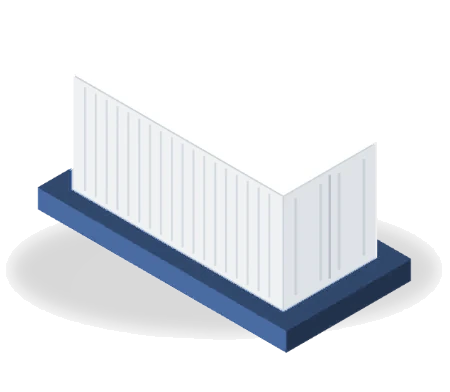
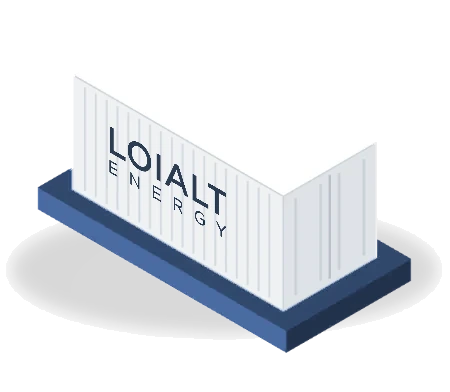
Marca los contenedores de Financiamiento y fija el dock en 4 + 3
Los tres contenedores llevan el wordmark de Loialt pintado en su cara
larga, mapeado con una afín sobre el paralelogramo para que herede el
escorzo de la caja.

El dock del nav deja de repartirse por capacidad: si las siete secciones
no caben son siempre dos páginas de 4 + 3, encogiendo la letra lo medido
y nunca por debajo de 11.8 px.

Changed region(s): [[0.2178, 0.3367, 0.4978, 0.5816], [0.4667, 0.5816, 0.4978, 0.6122]]

diff --git a/index.html b/index.html
@@ -476,6 +476,17 @@ html.tone-night .social-fab-list a:hover{ color:var(--energy); }
      la página 1 baja a 415. La letra NO se toca — ese fue justo el error de los
      escalones de compresión que esta paginación vino a sustituir. */
   .quicknav-dock.qn-paginado{ gap:1rem; }
+  /* REGLA ESTABLECIDA (2026-10-01, pedido del usuario): si las siete no caben,
+     SIEMPRE son dos páginas de 4 + 3 — «aunque la letra se haga un poco más
+     pequeña». Antes se repartía en tres páginas y salían 3 · 2 · 2, dos palabras
+     sueltas. `--qn-esc` es ese encogimiento, lo calcula `initDockPaginado()`
+     midiendo, y tiene PISO: nunca baja del 80 %, que sobre el mínimo de .92rem
+     son 11.8 px — justo por encima del piso de legibilidad de ~11.7 px que fijó
+     la auditoría de móvil. Si ni al 80 % cabe, se vuelve al reparto medido:
+     meter las palabras bajo el wordmark es peor que tres páginas. */
+  .quicknav-dock.qn-paginado a{
+    font-size: calc(clamp(.92rem,1.15vw,1.08rem) * var(--qn-esc, 1));
+  }
   /* Mismas flechas que el carrusel de Productos (pedido del usuario): solo el
      trazo, sin burbuja ni línea recta. El aviso de que responde lo da el color
      y un empujón hacia donde te va a llevar. */
@@ -3649,7 +3660,7 @@ html.tone-day .lang-sw{ color:var(--energy-deep); border-color:rgba(90,154,66,.4
       <!-- El hueco del render va dimensionado con --fin-h: cuando lleguen las
            piezas 3D se sustituye el .ph por un <img> y nada se mueve. -->
       <div class="fin-card reveal">
-        <div class="fin-media"><img src="/public/fin-venta.webp?v=3" alt="Contenedor BESS sobre un zócalo macizo de una sola pieza: el sistema es tuyo desde el primer día." width="450" height="392" loading="lazy" decoding="async" data-i18n-attr-alt="financiamiento.alt1"></div>
+        <div class="fin-media"><img src="/public/fin-venta.webp?v=4" alt="Contenedor BESS sobre un zócalo macizo de una sola pieza: el sistema es tuyo desde el primer día." width="450" height="392" loading="lazy" decoding="async" data-i18n-attr-alt="financiamiento.alt1"></div>
         <div class="fin-body">
           <div class="fin-k" data-i18n="financiamiento.div1">Venta directa</div>
           <h3 data-i18n="financiamiento.h31">Propiedad total</h3>
@@ -3659,7 +3670,7 @@ html.tone-day .lang-sw{ color:var(--energy-deep); border-color:rgba(90,154,66,.4
       </div>
 
       <div class="fin-card reveal">
-        <div class="fin-media"><img src="/public/fin-arrendamiento.webp?v=3" alt="Contenedor BESS sobre un zócalo mitad macizo y mitad luz verde: la inversión repartida, solo pagas una parte por adelantado." width="450" height="392" loading="lazy" decoding="async" data-i18n-attr-alt="financiamiento.alt2"></div>
+        <div class="fin-media"><img src="/public/fin-arrendamiento.webp?v=4" alt="Contenedor BESS sobre un zócalo mitad macizo y mitad luz verde: la inversión repartida, solo pagas una parte por adelantado." width="450" height="392" loading="lazy" decoding="async" data-i18n-attr-alt="financiamiento.alt2"></div>
         <div class="fin-body">
           <div class="fin-k" data-i18n="financiamiento.div2">Arrendamiento</div>
           <h3 data-i18n="financiamiento.h32">Inversión inicial mínima</h3>
@@ -3669,7 +3680,7 @@ html.tone-day .lang-sw{ color:var(--energy-deep); border-color:rgba(90,154,66,.4
       </div>
 
       <div class="fin-card reveal">
-        <div class="fin-media"><img src="/public/fin-baas.webp?v=3" alt="Contenedor BESS sin zócalo, apoyado solo sobre luz verde: cero inversión inicial, lo opera Loialt." width="450" height="392" loading="lazy" decoding="async" data-i18n-attr-alt="financiamiento.alt3"></div>
+        <div class="fin-media"><img src="/public/fin-baas.webp?v=4" alt="Contenedor BESS sin zócalo, apoyado solo sobre luz verde: cero inversión inicial, lo opera Loialt." width="450" height="392" loading="lazy" decoding="async" data-i18n-attr-alt="financiamiento.alt3"></div>
         <div class="fin-body">
           <div class="fin-k" data-i18n="financiamiento.div3">BESS as a Service</div>
           <h3 data-i18n="financiamiento.h33">Cero inversión inicial</h3>
@@ -4449,6 +4460,11 @@ html.tone-day .lang-sw{ color:var(--energy-deep); border-color:rgba(90,154,66,.4
     var flechas = [].slice.call(dock.querySelectorAll('.qn-flecha'));
     if(!enls.length) return;
     var AIRE = 28;                                 // respiro a cada lado
+    var ESC_MIN = 0.8;                             // ver la nota del CSS: 11.8px
+    function escala(v){
+      if(v === 1) dock.style.removeProperty('--qn-esc');
+      else dock.style.setProperty('--qn-esc', String(Math.round(v * 1000) / 1000));
+    }
     var mqEscritorio = window.matchMedia('(min-width:901px)');   // gate VIVO
     var paginas = [], actual = 0, ultimoActivo = null;
 
@@ -4509,6 +4525,7 @@ html.tone-day .lang-sw{ color:var(--energy-deep); border-color:rgba(90,154,66,.4
       if(!mqEscritorio.matches){
         dock.classList.remove('qn-paginado');
         enls.forEach(function(a){ a.style.display = ''; });
+        escala(1);
         paginas = [enls]; actual = 0; ultimoActivo = null;
         return;
       }
@@ -4522,28 +4539,43 @@ html.tone-day .lang-sw{ color:var(--energy-deep); border-color:rgba(90,154,66,.4
       var total = dock.scrollWidth;
 
       if(total <= util){
-        paginas = [enls];
+        paginas = [enls]; escala(1);
       } else {
-        /* DOS PÁGINAS SIEMPRE QUE SE PUEDA, la primera con la mitad mayor: con
-           siete secciones sale 4 + 3. Pedido explícito del usuario (2026-10-01),
-           que encontró «horrible» ver dos palabras sueltas — que es lo que daba
-           el reparto anterior en ventanas de ~1000px.
-           Se busca el reparto MÁS GRANDE que de verdad quepa, probando de
-           ceil(n/2) hacia abajo y midiendo CADA página en su estado real
-           (`anchoPagina`), no con aritmética sobre anchos sueltos. Dos razones:
-           el gap cambia al paginar, y las palabras no miden lo mismo, así que la
-           capacidad calculada sobre las primeras no vale para las siguientes.
-           Y nunca se impone un reparto que no quepa: desbordar aquí es meter las
-           palabras bajo el wordmark, que es el fallo que esta paginación vino a
-           resolver. */
-        var tope = Math.ceil(enls.length / 2);
-        for(var cap = tope; cap >= 1; cap--){
-          var cand = repartir(enls.length, cap), cabe = true;
-          for(var k = 0; k < cand.length; k++){
-            if(anchoPagina(cand[k]) > util){ cabe = false; break; }
+        /* DOS PÁGINAS DE 4 + 3, como regla. Pedido explícito del usuario
+           (2026-10-01): «si no caben los 7, separar en 3 y 4, aunque la letra se
+           haga un poco más pequeña». El reparto anterior medía cuántas cabían y
+           en ventanas de ~950px daba 3 · 2 · 2 — dos palabras sueltas.
+           Lo que se mide ahora NO es el reparto sino CUÁNTO hay que encoger para
+           que ese reparto entre. Cada página se mide en su ESTADO REAL
+           (`anchoPagina`), no con aritmética sobre anchos sueltos: el gap cambia
+           al paginar y las palabras no miden lo mismo.
+           Se itera porque el gap NO encoge con la letra, así que un solo
+           `util/ancho` se queda corto; en 2-3 pasadas converge. */
+        var corte = Math.ceil(enls.length / 2);
+        var fijo = [enls.slice(0, corte), enls.slice(corte)];
+        var e = 1;
+        escala(e);
+        var ancho = Math.max(anchoPagina(fijo[0]), anchoPagina(fijo[1]));
+        for(var i = 0; i < 5 && ancho > util && e > ESC_MIN; i++){
+          e = Math.max(ESC_MIN, e * (util / ancho) * 0.99);
+          escala(e);
+          ancho = Math.max(anchoPagina(fijo[0]), anchoPagina(fijo[1]));
+        }
+        if(ancho <= util){
+          paginas = fijo;
+        } else {
+          /* Ni al piso de legibilidad cabe (ventanas de ~900px). Entonces manda
+             el invariante del nav: antes tres páginas que palabras debajo del
+             wordmark. Se vuelve a letra entera y se reparte por medición. */
+          escala(1);
+          for(var cap = corte - 1; cap >= 1; cap--){
+            var cand = repartir(enls.length, cap), cabe = true;
+            for(var k = 0; k < cand.length; k++){
+              if(anchoPagina(cand[k]) > util){ cabe = false; break; }
+            }
+            paginas = cand;
+            if(cabe) break;
           }
-          paginas = cand;
-          if(cabe) break;
         }
       }
       if(actual >= paginas.length) actual = paginas.length - 1;
